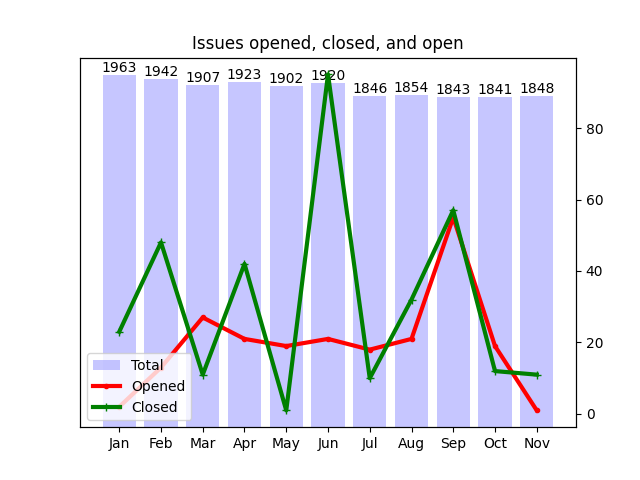
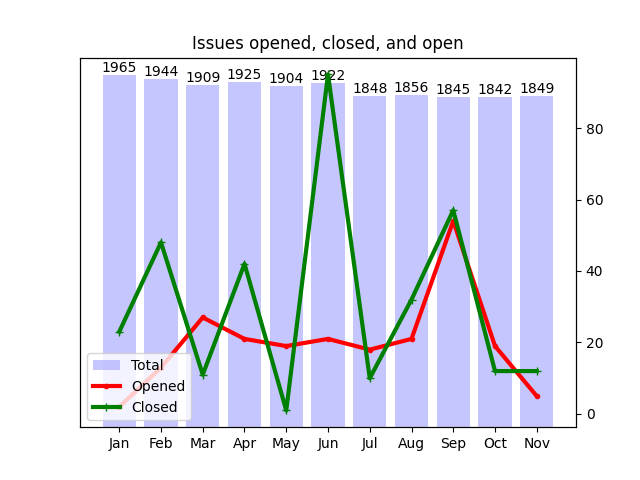
Apply automatic changes

diff --git a/docs/analytics.html b/docs/analytics.html
@@ -82,7 +82,7 @@
 						</tr>
 						<tr>
 							<td>Sep</td>
-							<td>55</td>
+							<td>54</td>
 							<td>57</td>
 						</tr>
 						<tr>
@@ -92,8 +92,8 @@
 						</tr>
 						<tr>
 							<td>Nov</td>
-							<td>1</td>
-							<td>11</td>
+							<td>5</td>
+							<td>12</td>
 						</tr>
 					</table>
 				</div>
@@ -113,7 +113,7 @@
 							<td>
 								<a href="http://github.com/notofonts/latin-greek-cyrillic">latin-greek-cyrillic</a>
 							</td>
-							<td>240</td>
+							<td>241</td>
 						</tr>
 						<tr>
 							<td>
@@ -131,7 +131,7 @@
 							<td>
 								<a href="http://github.com/notofonts/symbols">symbols</a>
 							</td>
-							<td>31</td>
+							<td>30</td>
 						</tr>
 						<tr>
 							<td>
@@ -190,13 +190,13 @@
 				<tr>
 					<td>2</td>
 					<td>
-						<a href="http://github.com/notofonts/ahom">ahom</a>,  						<a href="http://github.com/notofonts/cham">cham</a>,  						<a href="http://github.com/notofonts/chorasmian">chorasmian</a>,  						<a href="http://github.com/notofonts/coptic">coptic</a>,  						<a href="http://github.com/notofonts/elbasan">elbasan</a>,  						<a href="http://github.com/notofonts/elymaic">elymaic</a>,  						<a href="http://github.com/notofonts/georgian">georgian</a>,  						<a href="http://github.com/notofonts/hanifi-rohingya">hanifi-rohingya</a>,  						<a href="http://github.com/notofonts/inscriptional-pahlavi">inscriptional-pahlavi</a>,  						<a href="http://github.com/notofonts/kharoshthi">kharoshthi</a>,  						<a href="http://github.com/notofonts/lao">lao</a>,  						<a href="http://github.com/notofonts/limbu">limbu</a>,  						<a href="http://github.com/notofonts/lydian">lydian</a>,  						<a href="http://github.com/notofonts/marchen">marchen</a>,  						<a href="http://github.com/notofonts/meroitic">meroitic</a>,  						<a href="http://github.com/notofonts/multani">multani</a>,  						<a href="http://github.com/notofonts/nko">nko</a>,  						<a href="http://github.com/notofonts/old-hungarian">old-hungarian</a>,  						<a href="http://github.com/notofonts/old-turkic">old-turkic</a>,  						<a href="http://github.com/notofonts/pahawh-hmong">pahawh-hmong</a>,  						<a href="http://github.com/notofonts/phags-pa">phags-pa</a>,  						<a href="http://github.com/notofonts/psalter-pahlavi">psalter-pahlavi</a>,  						<a href="http://github.com/notofonts/samaritan">samaritan</a>,  						<a href="http://github.com/notofonts/sharada">sharada</a>,  						<a href="http://github.com/notofonts/yezidi">yezidi</a>,  						<a href="http://github.com/notofonts/zanabazar-square">zanabazar-square</a> 
+						<a href="http://github.com/notofonts/cham">cham</a>,  						<a href="http://github.com/notofonts/chorasmian">chorasmian</a>,  						<a href="http://github.com/notofonts/coptic">coptic</a>,  						<a href="http://github.com/notofonts/elbasan">elbasan</a>,  						<a href="http://github.com/notofonts/elymaic">elymaic</a>,  						<a href="http://github.com/notofonts/georgian">georgian</a>,  						<a href="http://github.com/notofonts/hanifi-rohingya">hanifi-rohingya</a>,  						<a href="http://github.com/notofonts/inscriptional-pahlavi">inscriptional-pahlavi</a>,  						<a href="http://github.com/notofonts/kharoshthi">kharoshthi</a>,  						<a href="http://github.com/notofonts/lao">lao</a>,  						<a href="http://github.com/notofonts/limbu">limbu</a>,  						<a href="http://github.com/notofonts/lydian">lydian</a>,  						<a href="http://github.com/notofonts/marchen">marchen</a>,  						<a href="http://github.com/notofonts/meroitic">meroitic</a>,  						<a href="http://github.com/notofonts/multani">multani</a>,  						<a href="http://github.com/notofonts/nko">nko</a>,  						<a href="http://github.com/notofonts/old-hungarian">old-hungarian</a>,  						<a href="http://github.com/notofonts/old-turkic">old-turkic</a>,  						<a href="http://github.com/notofonts/pahawh-hmong">pahawh-hmong</a>,  						<a href="http://github.com/notofonts/phags-pa">phags-pa</a>,  						<a href="http://github.com/notofonts/psalter-pahlavi">psalter-pahlavi</a>,  						<a href="http://github.com/notofonts/samaritan">samaritan</a>,  						<a href="http://github.com/notofonts/sharada">sharada</a>,  						<a href="http://github.com/notofonts/yezidi">yezidi</a>,  						<a href="http://github.com/notofonts/zanabazar-square">zanabazar-square</a> 
 					</td>
 				</tr>
 				<tr>
 					<td>3</td>
 					<td>
-						<a href="http://github.com/notofonts/Cousine">Cousine</a>,  						<a href="http://github.com/notofonts/Tinos">Tinos</a>,  						<a href="http://github.com/notofonts/duployan">duployan</a>,  						<a href="http://github.com/notofonts/glagolitic">glagolitic</a>,  						<a href="http://github.com/notofonts/gunjala-gondi">gunjala-gondi</a>,  						<a href="http://github.com/notofonts/mandaic">mandaic</a>,  						<a href="http://github.com/notofonts/nushu">nushu</a>,  						<a href="http://github.com/notofonts/nyiakeng-puachue-hmong">nyiakeng-puachue-hmong</a>,  						<a href="http://github.com/notofonts/old-sogdian">old-sogdian</a>,  						<a href="http://github.com/notofonts/rejang">rejang</a>,  						<a href="http://github.com/notofonts/soyombo">soyombo</a>,  						<a href="http://github.com/notofonts/tagalog">tagalog</a>,  						<a href="http://github.com/notofonts/tai-viet">tai-viet</a>,  						<a href="http://github.com/notofonts/takri">takri</a>,  						<a href="http://github.com/notofonts/tangsa">tangsa</a> 
+						<a href="http://github.com/notofonts/Cousine">Cousine</a>,  						<a href="http://github.com/notofonts/Tinos">Tinos</a>,  						<a href="http://github.com/notofonts/ahom">ahom</a>,  						<a href="http://github.com/notofonts/duployan">duployan</a>,  						<a href="http://github.com/notofonts/glagolitic">glagolitic</a>,  						<a href="http://github.com/notofonts/gunjala-gondi">gunjala-gondi</a>,  						<a href="http://github.com/notofonts/mandaic">mandaic</a>,  						<a href="http://github.com/notofonts/nushu">nushu</a>,  						<a href="http://github.com/notofonts/nyiakeng-puachue-hmong">nyiakeng-puachue-hmong</a>,  						<a href="http://github.com/notofonts/old-sogdian">old-sogdian</a>,  						<a href="http://github.com/notofonts/rejang">rejang</a>,  						<a href="http://github.com/notofonts/soyombo">soyombo</a>,  						<a href="http://github.com/notofonts/tagalog">tagalog</a>,  						<a href="http://github.com/notofonts/tai-viet">tai-viet</a>,  						<a href="http://github.com/notofonts/takri">takri</a>,  						<a href="http://github.com/notofonts/tangsa">tangsa</a> 
 					</td>
 				</tr>
 				<tr>
@@ -208,13 +208,13 @@
 				<tr>
 					<td>5</td>
 					<td>
-						<a href="http://github.com/notofonts/armenian">armenian</a>,  						<a href="http://github.com/notofonts/bhaiksuki">bhaiksuki</a>,  						<a href="http://github.com/notofonts/canadian-aboriginal">canadian-aboriginal</a>,  						<a href="http://github.com/notofonts/egyptian-hieroglyphs">egyptian-hieroglyphs</a>,  						<a href="http://github.com/notofonts/ethiopic">ethiopic</a>,  						<a href="http://github.com/notofonts/javanese">javanese</a>,  						<a href="http://github.com/notofonts/modi">modi</a>,  						<a href="http://github.com/notofonts/mongolian">mongolian</a>,  						<a href="http://github.com/notofonts/nandinagari">nandinagari</a> 
+						<a href="http://github.com/notofonts/armenian">armenian</a>,  						<a href="http://github.com/notofonts/bhaiksuki">bhaiksuki</a>,  						<a href="http://github.com/notofonts/canadian-aboriginal">canadian-aboriginal</a>,  						<a href="http://github.com/notofonts/egyptian-hieroglyphs">egyptian-hieroglyphs</a>,  						<a href="http://github.com/notofonts/ethiopic">ethiopic</a>,  						<a href="http://github.com/notofonts/javanese">javanese</a>,  						<a href="http://github.com/notofonts/modi">modi</a>,  						<a href="http://github.com/notofonts/nandinagari">nandinagari</a> 
 					</td>
 				</tr>
 				<tr>
 					<td>6</td>
 					<td>
-						<a href="http://github.com/notofonts/adlam">adlam</a>,  						<a href="http://github.com/notofonts/brahmi">brahmi</a>,  						<a href="http://github.com/notofonts/kaithi">kaithi</a>,  						<a href="http://github.com/notofonts/khojki">khojki</a>,  						<a href="http://github.com/notofonts/malayalam">malayalam</a>,  						<a href="http://github.com/notofonts/sign-writing">sign-writing</a> 
+						<a href="http://github.com/notofonts/adlam">adlam</a>,  						<a href="http://github.com/notofonts/brahmi">brahmi</a>,  						<a href="http://github.com/notofonts/kaithi">kaithi</a>,  						<a href="http://github.com/notofonts/khojki">khojki</a>,  						<a href="http://github.com/notofonts/malayalam">malayalam</a>,  						<a href="http://github.com/notofonts/mongolian">mongolian</a>,  						<a href="http://github.com/notofonts/sign-writing">sign-writing</a> 
 					</td>
 				</tr>
 				<tr>
@@ -238,7 +238,7 @@
 				<tr>
 					<td>10</td>
 					<td>
-						<a href="http://github.com/notofonts/hebrew">hebrew</a>,  						<a href="http://github.com/notofonts/siddham">siddham</a>,  						<a href="http://github.com/notofonts/thai">thai</a>,  						<a href="http://github.com/notofonts/tirhuta">tirhuta</a> 
+						<a href="http://github.com/notofonts/hebrew">hebrew</a>,  						<a href="http://github.com/notofonts/siddham">siddham</a>,  						<a href="http://github.com/notofonts/tirhuta">tirhuta</a> 
 					</td>
 				</tr>
 			</table>
@@ -459,6 +459,7 @@
 									<li><a href="https://github.com/notofonts/thaana/releases/tag/NotoSansThaana-v2.001">NotoSansThaana-v2.001</a></li>
 									<li><a href="https://github.com/notofonts/tibetan/releases/tag/NotoSerifTibetan-v2.103">NotoSerifTibetan-v2.103</a></li>
 									<li><a href="https://github.com/notofonts/tifinagh/releases/tag/NotoSansTifinagh-v2.004">NotoSansTifinagh-v2.004</a></li>
+									<li><a href="https://github.com/notofonts/tirhuta/releases/tag/NotoSansTirhuta-v2.003">NotoSansTirhuta-v2.003</a></li>
 									<li><a href="https://github.com/notofonts/toto/releases/tag/NotoSerifToto-v2.001">NotoSerifToto-v2.001</a></li>
 									<li><a href="https://github.com/notofonts/vai/releases/tag/NotoSansVai-v2.001">NotoSansVai-v2.001</a></li>
 									<li><a href="https://github.com/notofonts/wancho/releases/tag/NotoSansWancho-v2.001">NotoSansWancho-v2.001</a></li>
